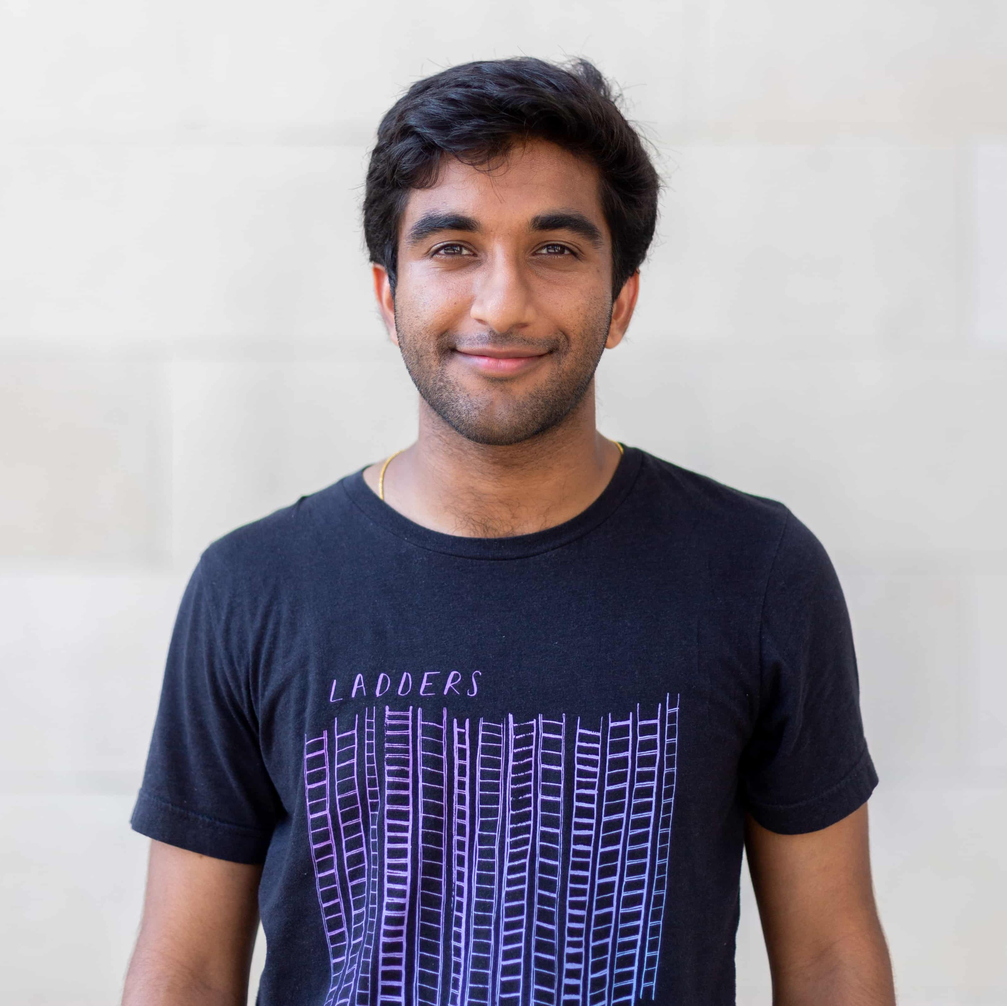
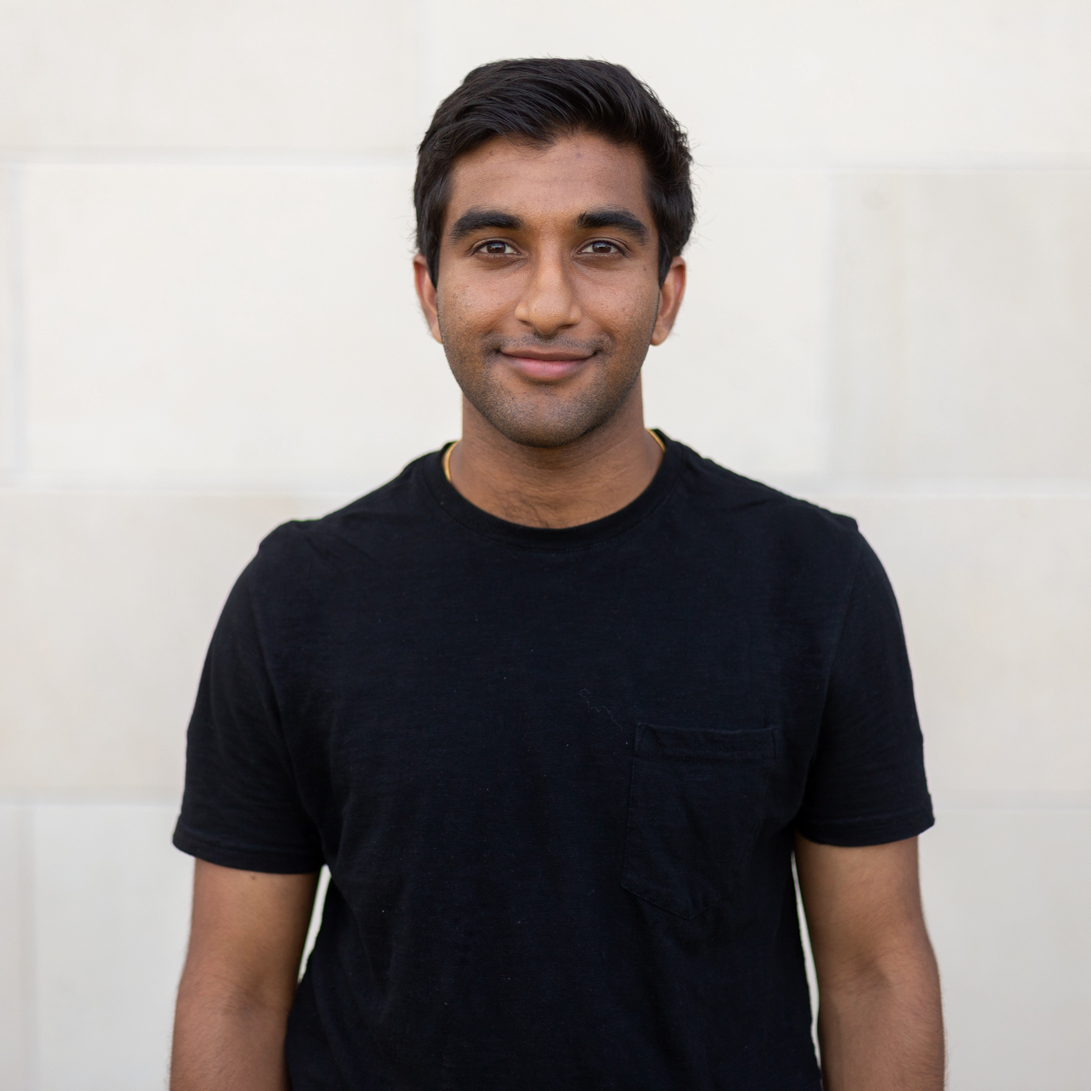
Added jay to the members list

diff --git a/src/views/index.html b/src/views/index.html
@@ -989,7 +989,7 @@
       </div>
       <!--END Card -->
       <!--BEGIN Card-->
-      <!-- <div class="col-lg-3 col-md-4 col-sm-6 col-6">
+      <div class="col-lg-3 col-md-4 col-sm-6 col-6">
         <img
           class="card-img-top"
           src="/static/assets/headshots/jay.jpg"
@@ -1008,7 +1008,7 @@
             </a>
           </h5>
         </div>
-      </div> -->
+      </div>
       <!--END Card -->
 
     </div>
